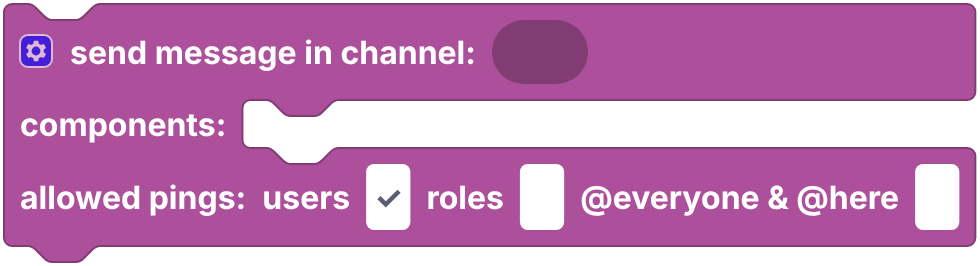
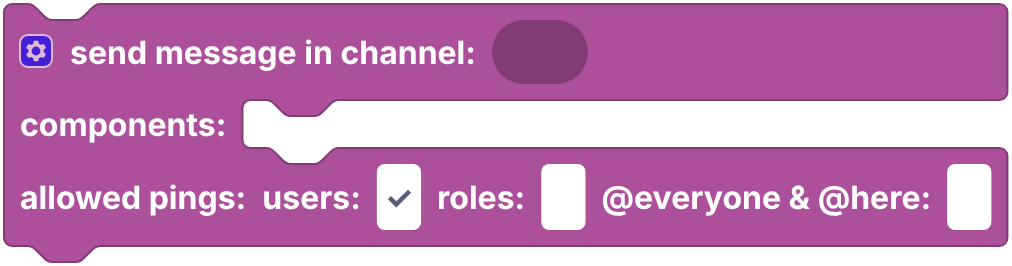
Updated allowed pings docs for users-only default

diff --git a/docs/Blocks/Servers/channels.md b/docs/Blocks/Servers/channels.md
@@ -28,9 +28,9 @@ Right after sending, `message sent by the bot` is the message that just went out
 
 ![Send message in channel with allowed pings](../media/blocks/cv2_sendMessage_pings.png)
 
-By default, a message your bot sends pings nobody. Mentions still show up in the message, but nobody gets a notification. This stops people from using your bot to ping a role or @everyone just by getting it to repeat what they typed.
+By default, a message your bot sends can only ping users. Role, `@everyone` and `@here` mentions still show up in the message, but nobody gets a notification. This stops people from using your bot to ping a role or everyone just by getting it to repeat what they typed.
 
-To let a message ping, click the gear on the block and tick **include allowed pings**. An **allowed pings** row appears on the block. Tick the pings you want this message to send:
+To change which pings are allowed, click the gear on the block and tick **include allowed pings**. An **allowed pings** row appears on the block. Tick the pings you want this message to send:
 
 | Option | What it allows |
 | --- | --- |
@@ -38,10 +38,12 @@ To let a message ping, click the gear on the block and tick **include allowed pi
 | **roles** | Mentions of roles |
 | **@everyone & @here** | `@everyone` and `@here` |
 
+The gear only shows or hides the row. Your choices still apply when the row is hidden.
+
 Every block that sends, replies to or edits a message has this option, including DMs, interaction replies, webhooks and polls.
 
 :::info
-Projects made before this option existed keep pinging like they always did. Their blocks have **allowed pings** turned on with every ping ticked, so nothing changes until you untick them.
+Projects made before this option existed keep pinging like they always did. Their blocks allow all three pings, with the row hidden. Show the row from the gear to change that.
 :::
 
 ## Getting a channel

diff --git a/docs/Blocks/Messages/message.md b/docs/Blocks/Messages/message.md
@@ -58,7 +58,7 @@ To fetch several at once, use `get last ... messages of channel` from [Channels]
 
 Both take a **components** input. See [Components](../Components/components.md) for what goes in it.
 
-Messages ping nobody unless you allow it with the gear on the block. See [Allowing pings](../Servers/channels.md#allowing-pings).
+Messages only ping users unless you change it with the gear on the block. See [Allowing pings](../Servers/channels.md#allowing-pings).
 
 :::info
 A bot can only edit its own messages. Discord does not allow anything else.
